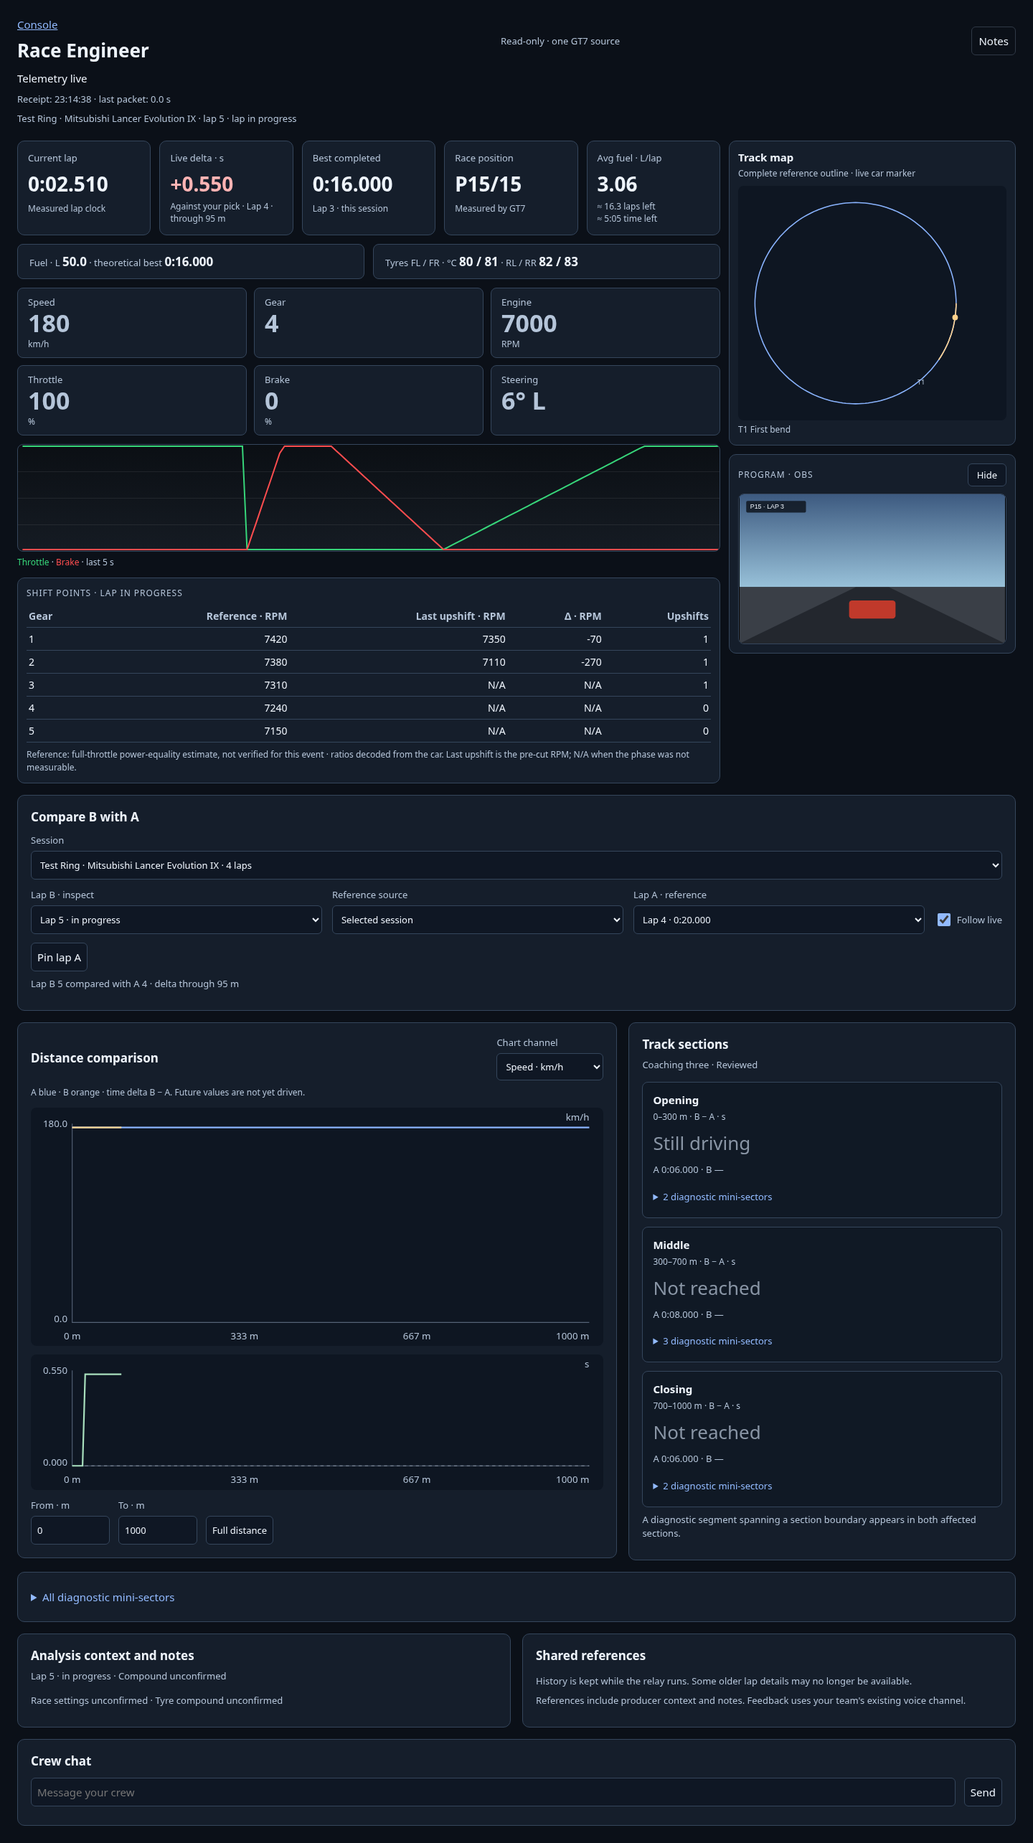
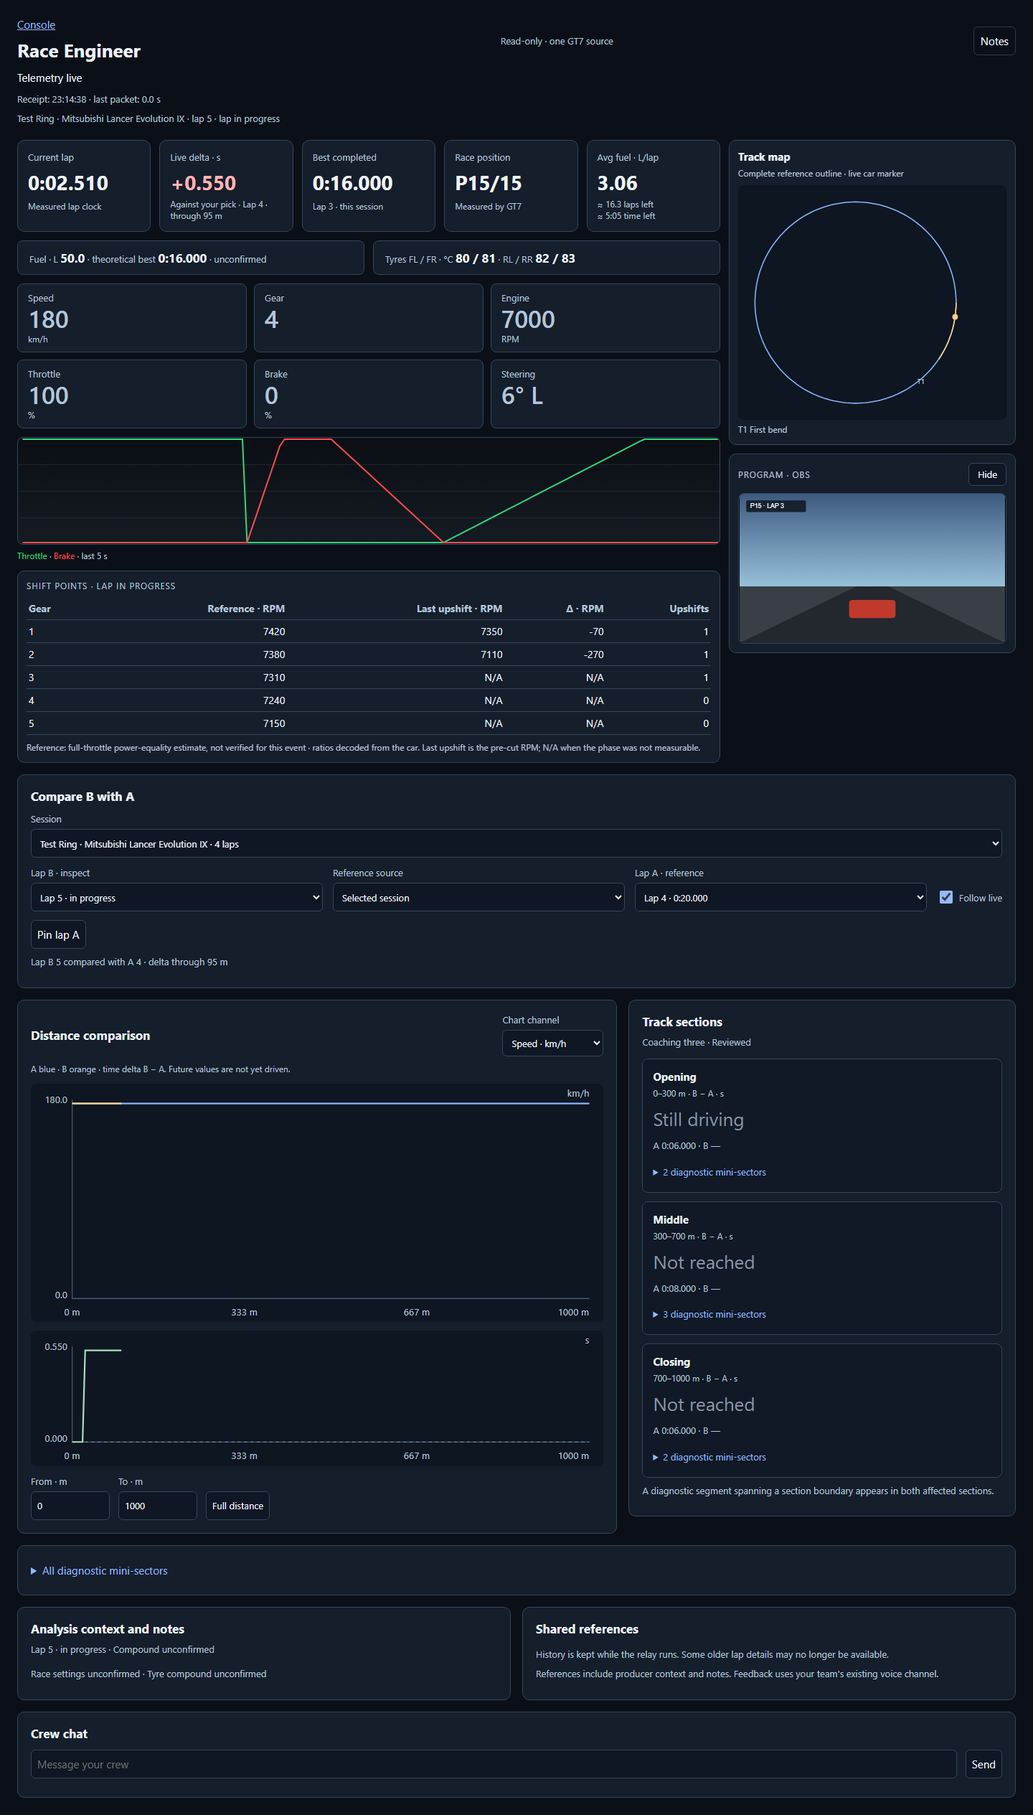
fix(engineer): compose the desk's theoretical best from larger sectors (#1017)
The desk headline summed the best 200 m mini-sectors of every lap. Picking
the best of ~20 slices per lap runs well below any drivable lap: 1:22.120
on Road Atlanta against GT7's own optimum of 1:22.899. #813 keeps that sum
a diagnostic and puts the larger-sector composition in the headline; the
report and workspace already did, the live desk did not.

- theoretical_s now comes from gt7_track_definitions.theoretical over the
  same eligible pool: the selected variant of the layout's definition, or
  the automatic provisional thirds when none is reviewed. Without larger
  sectors it is null, never the mini sum.
- New snapshot fields: theoretical_confirmed, theoretical_sectors and the
  diagnostic mini_sector_sum_s. The desk marks an unconfirmed value and
  names the variant and the mini sum in the tooltip.
- Retained summaries keep their measured larger-sector times through a
  context re-annotation, which has no trace to measure them again.

diff --git a/src/console/race-engineer.html b/src/console/race-engineer.html
@@ -27,7 +27,7 @@ button:disabled{opacity:.5;cursor:default}
 <div class="tile value"><span>Race position</span><strong id="race-position">N/A</strong><small>Measured by GT7</small></div>
 <div class="tile value"><span>Avg fuel · L/lap</span><strong id="fuel-avg">N/A</strong><small id="fuel-avg-note">No completed lap with fuel use</small><small id="fuel-time-note">N/A</small></div>
 </div>
-<div class="support"><div class="value"><span class="sub">Fuel · L </span><strong id="fuel">N/A</strong><span class="sub"> · theoretical best </span><strong id="theory">N/A</strong></div><div class="value"><span class="sub">Tyres FL / FR · °C </span><strong id="tyres-front">N/A</strong><span class="sub"> · RL / RR </span><strong id="tyres-rear">N/A</strong></div></div>
+<div class="support"><div class="value"><span class="sub">Fuel · L </span><strong id="fuel">N/A</strong><span class="sub"> · theoretical best </span><strong id="theory">N/A</strong><span class="sub" id="theory-note"></span></div><div class="value"><span class="sub">Tyres FL / FR · °C </span><strong id="tyres-front">N/A</strong><span class="sub"> · RL / RR </span><strong id="tyres-rear">N/A</strong></div></div>
 
 <div class="inputs"><div class="value"><span>Speed</span><strong id="speed">N/A</strong><small data-unit-for="speed">km/h</small></div><div class="value"><span>Gear</span><strong id="gear">N/A</strong></div><div class="value"><span>Engine</span><strong id="rpm">N/A</strong><small data-unit-for="rpm">RPM</small></div><div class="value"><span>Throttle</span><strong id="throttle">N/A</strong><small data-unit-for="throttle">%</small></div><div class="value"><span>Brake</span><strong id="brake">N/A</strong><small data-unit-for="brake">%</small></div><div class="value"><span>Steering</span><strong id="steer">N/A</strong></div></div>
 <div class="trace-box"><canvas id="input-trace" role="img" aria-label="Throttle and brake trace, last 5 seconds"></canvas><p class="legend"><span class="thr">Throttle</span> · <span class="brk">Brake</span> · <span id="trace-note">Waiting for input samples</span></p></div>
@@ -140,7 +140,7 @@ function renderShifts(snap){const s=snap.shifts,body=$('shift-table').tBodies[0]
   for(const text of [String(g),num(targets.get(g),0),last?(Number.isFinite(last.pre_cut_rpm)?num(last.pre_cut_rpm,0):NA):NA,last&&Number.isFinite(last.deviation_rpm)?signed(last.deviation_rpm,0):NA,String(mine.length)])row.insertCell().textContent=text;}
  $('shift-note').textContent=ref.kind==='unavailable'||!targets.size?'No local shift reference for this car. Fetch it in Telemetry → Data management → Shift references by car.':`Reference: full-throttle power-equality estimate, not verified for this event · ratios ${ref.ratio_source==='decoded transmission'?'decoded from the car':'from the stock source'}. Last upshift is the pre-cut RPM; N/A when the phase was not measurable.`;
 }
-function instruments(snap){const v=snap.instruments||{};$('race-position').textContent=v.race_position!=null&&v.car_count!=null?`P${v.race_position}/${v.car_count}`:NA;for(const [id,value,d] of [['speed',v.speed_kmh,0],['gear',v.gear,0],['rpm',v.rpm,0],['throttle',v.throttle,0],['brake',v.brake,0],['fuel',v.fuel_l,1]])$(id).textContent=num(value,d);for(const [id,value] of [['lap-time',snap.current?.elapsed_s],['best',snap.best_s],['theory',snap.theoretical_s]])$(id).textContent=lapTime(value);
+function instruments(snap){const v=snap.instruments||{};$('race-position').textContent=v.race_position!=null&&v.car_count!=null?`P${v.race_position}/${v.car_count}`:NA;for(const [id,value,d] of [['speed',v.speed_kmh,0],['gear',v.gear,0],['rpm',v.rpm,0],['throttle',v.throttle,0],['brake',v.brake,0],['fuel',v.fuel_l,1]])$(id).textContent=num(value,d);for(const [id,value] of [['lap-time',snap.current?.elapsed_s],['best',snap.best_s],['theory',snap.theoretical_s]])$(id).textContent=lapTime(value);const unconfirmed=snap.theoretical_s!=null&&!snap.theoretical_confirmed;$('theory-note').textContent=unconfirmed?' · unconfirmed':'';$('theory').title=snap.theoretical_s!=null?`Best ${snap.theoretical_sectors||'larger-sector'} composition${unconfirmed?', not confirmed':''}; 200 m mini-sector sum ${lapTime(snap.mini_sector_sum_s)} (diagnostic)`:'';
  const avg=snap.fuel_avg_l,fuel=v.fuel_l,left=Number.isFinite(avg)&&avg>0&&Number.isFinite(fuel)?Math.max(0,fuel)/avg:null;
  $('fuel-avg').textContent=num(avg,2);$('fuel-avg-note').textContent=!snap.fuel_avg_laps?'No completed lap with fuel use':left==null?NA:`≈ ${num(left,1)} laps left`;$('fuel-time-note').textContent=left!=null&&Number.isFinite(snap.lap_avg_s)?`≈ ${duration(left*snap.lap_avg_s)} time left`:NA;
  for(const id of ['lap-time','best','theory'])$(id).classList.remove('not-driven');if(snap.current?.lap<=0){$('lap-time').textContent='Out lap';$('lap-time').classList.add('not-driven');}if(snap.current&&!state.laps.some(r=>r.session_id===snap.current.session_id&&r.comparison_eligible)){for(const [id,value]of [['best',snap.best_s],['theory',snap.theoretical_s]])if(value==null){$(id).textContent='No eligible lap';$(id).classList.add('not-driven');}}

diff --git a/src/scripts/race_engineer_live.py b/src/scripts/race_engineer_live.py
@@ -79,6 +79,7 @@ SUMMARY_FIELDS = frozenset((
     "provisional_comparison_eligible",
     "definition_fingerprint",
     "sector_variant_id",
+    "larger_sectors",
     "track_definition_warnings",
     "context_confirmed",
     "context_warnings",
@@ -174,6 +175,63 @@ def lap_time_average(laps, session_id):
     """Mean lap time (s) over the live session's completed eligible laps, else None."""
     times = _session_measurements(laps, session_id, "time_s")
     return round(sum(times) / len(times), 3) if times else None
+
+
+def theoretical(laps):
+    """The headline theoretical best (#813): the best larger-sector composition over
+    `laps`, the eligible pool, via the same gt7_track_definitions.theoretical the
+    report and workspace use. The newest lap's definition and variant decide, and only
+    laps on exactly that variant compose. A dict {time_s, confirmed, sectors}, or None
+    without larger sectors: the 200 m mini-sector sum never stands in for it."""
+    rows = [r for r in laps if r.get("larger_sectors")]
+    if not rows:
+        return None
+    larger, fingerprint = rows[-1]["larger_sectors"], rows[-1].get("definition_fingerprint")
+    same = [r for r in rows if r.get("definition_fingerprint") == fingerprint
+            and r["larger_sectors"].get("variant_id") == larger.get("variant_id")
+            and r["larger_sectors"].get("bounds_m") == larger.get("bounds_m")]
+    definition = {"fingerprint": fingerprint, "reviewed": bool(larger.get("reviewed")),
+                  "version": None,
+                  "variants": [{"id": larger.get("variant_id"), "name": larger.get("name"),
+                                "kind": larger.get("kind"), "reviewed": bool(larger.get("reviewed")),
+                                "bounds_m": larger.get("bounds_m"),
+                                "sector_names": larger.get("names") or []}]}
+    try:
+        result = gt7_track_definitions.theoretical(same, definition, larger.get("variant_id"))
+    except (ValueError, TypeError, KeyError):
+        return None
+    if _finite(result.get("time_s")) is None:
+        return None
+    times = [r["time_s"] for r in same if _finite(r.get("time_s")) is not None]
+    # Rounding every sector can sum a few ms above the lap that set them all.
+    value = round(min([result["time_s"]] + times), 3)
+    return {"time_s": value, "confirmed": bool(result.get("confirmed")),
+            "sectors": larger.get("name")}
+
+
+def _carry_larger_sectors(new, old):
+    """A retained summary has no trace, so re-annotating it (a context change) can
+    rebuild no larger-sector times: the automatic provisional definition even needs a
+    trace to exist. Keep the times measured earlier when the re-annotation produced
+    no definition or the same one without times; a genuinely different definition
+    stays empty until a lap with a trace measures it."""
+    measured = old.get("larger_sectors")
+    current = new.get("larger_sectors")
+    if not measured or not measured.get("times_s") or all(t is None for t in measured["times_s"]):
+        return new
+    if current and current.get("times_s") and any(t is not None for t in current["times_s"]):
+        return new
+    if current and (new.get("definition_fingerprint") != old.get("definition_fingerprint")
+                    or current.get("bounds_m") != measured.get("bounds_m")):
+        return new
+    return dict(new, larger_sectors=measured,
+                definition_fingerprint=old.get("definition_fingerprint"),
+                sector_variant_id=old.get("sector_variant_id"))
+
+
+def mini_sector_sum(laps):
+    """Diagnostic only: the best 200 m mini-sector times summed (#813)."""
+    return gt7_laps.theoretical_best(laps)
 
 
 def instruments(pkt):
@@ -497,6 +555,9 @@ class Store:
             "fuel_avg_laps": 0,
             "lap_avg_s": None,
             "theoretical_s": None,
+            "theoretical_confirmed": False,
+            "theoretical_sectors": None,
+            "mini_sector_sum_s": None,
             "history": (
                 "recording-backed"
                 if self._recording and self._recording_current
@@ -932,6 +993,7 @@ class Store:
         ]
         fuel_avg, fuel_laps = fuel_average(self._summaries.values(), sid)
         best = min(eligible, key=lambda r: r["time_s"], default=None)
+        theory = theoretical(eligible)
         doc.update(
             revision=self._revision,
             current=current,
@@ -946,7 +1008,10 @@ class Store:
             fuel_avg_l=fuel_avg,
             fuel_avg_laps=fuel_laps,
             lap_avg_s=lap_time_average(self._summaries.values(), sid),
-            theoretical_s=gt7_laps.theoretical_best(eligible),
+            theoretical_s=theory["time_s"] if theory else None,
+            theoretical_confirmed=bool(theory and theory["confirmed"]),
+            theoretical_sectors=theory["sectors"] if theory else None,
+            mini_sector_sum_s=mini_sector_sum(eligible),
             warnings=[self._context_error] if self._context_error else [],
         )
         digest = hashlib.sha256(
@@ -1460,7 +1525,7 @@ class Store:
                 self._summaries = collections.OrderedDict(
                     (
                         lid,
-                        _summary(self._annotate(row))
+                        _summary(_carry_larger_sectors(self._annotate(row), row))
                         if row.get("_context_source") == key[0]
                         else row,
                     )
@@ -1481,7 +1546,7 @@ class Store:
                     (lid, self._annotate(row)) for lid, row in self._details.items()
                 )
                 self._summaries = collections.OrderedDict(
-                    (lid, _summary(self._annotate(row)))
+                    (lid, _summary(_carry_larger_sectors(self._annotate(row), row)))
                     for lid, row in self._summaries.items()
                 )
                 self._trim_details(self._published["session_id"])

diff --git a/tests/test_race_engineer_live.py b/tests/test_race_engineer_live.py
@@ -725,7 +725,8 @@ def t_confirmed_best_and_theory_respect_known_strategy_changes():
                         'compound': 'RM', 'strategy': {'fuel_map': 1},
                         'strategy_changes': [{'lap': 3, 'recording_s': 36.0,
                                               'strategy': {'fuel_map': 2}}]}]}}}, 0)
-        with live.Store(lambda: True, tracks=FakeTracks(), cars=FakeCars(), queue_max=4096) as store:
+        with live.Store(lambda: True, tracks=FakeTracks(), cars=FakeCars(), queue_max=4096,
+                        runtime_base=d) as store:
             store.bind_recording(path)
             store._read_context()
             feed(store, path)
@@ -733,6 +734,7 @@ def t_confirmed_best_and_theory_respect_known_strategy_changes():
             assert snap['current']['strategy']['fuel_map'] == 2
             assert snap['best_s'] == 20.0, 'known incompatible fuel strategy contaminated best'
             assert snap['theoretical_s'] == 20.0
+            assert snap['mini_sector_sum_s'] == 20.0, 'the diagnostic shares the filtered pool'
 
 
 def t_prefix_byte_boundary_excludes_later_packets():
@@ -826,6 +828,73 @@ def t_recorded_prefix_ending_midlap_waits_until_the_known_lap_end():
             assert store.detail(brief['id'])['state'] == 'pending'
             assert store.wait_recovery(10)
             assert store.detail(brief['id'])['state'] == 'ready'
+
+
+def _theory_row(lap, time_s, mini, larger, fp='fp1', variant='provisional-3'):
+    return {'lap': lap, 'time_s': time_s, 'track_id': 'ring01', 'car_id': 1, 'sectors': mini,
+            'pace_eligible': True, 'comparison_eligible': True, 'capture_complete': True,
+            'trace_complete': True, 'time_valid': True, 'analysis_role': 'regular',
+            'definition_fingerprint': fp,
+            'larger_sectors': {'variant_id': variant, 'name': 'Provisional thirds',
+                               'kind': 'provisional', 'reviewed': False,
+                               'bounds_m': [0.0, 400.0, 800.0, 1200.0],
+                               'names': ['Section 1', 'Section 2', 'Section 3'],
+                               'times_s': larger}}
+
+
+def t_theory_headline_composes_larger_sectors_not_mini_sectors():
+    # #813: the headline theoretical best is the larger-sector composition; the
+    # 200 m mini-sector best sum stays a diagnostic. Lap 1 wins sectors 1 and 3
+    # by tiny mini-sector margins, lap 2 wins the middle mini-sectors: the mini
+    # sum picks the best of every 200 m and lands below what any section allows.
+    a = _theory_row(1, 30.0, [5.0, 4.8, 5.2, 5.0, 4.9, 5.1], [9.8, 10.2, 10.0])
+    b = _theory_row(2, 30.1, [5.1, 4.9, 5.0, 5.1, 5.0, 5.0], [10.0, 10.1, 10.0])
+    theory = live.theoretical([a, b])
+    assert theory['time_s'] == 29.9, theory          # 9.8 + 10.1 + 10.0
+    assert theory['confirmed'] is False and theory['sectors'] == 'Provisional thirds', theory
+    assert live.mini_sector_sum([a, b]) == 29.7       # 5.0+4.8+5.0+5.0+4.9+5.0: below every section
+    # laps on another definition or variant never mix into one composition
+    other = _theory_row(3, 29.0, [4.0] * 6, [9.0, 9.0, 9.0], fp='fp-other')
+    assert live.theoretical([a, b, other])['time_s'] == 27.0, 'the newest definition decides'
+    assert live.theoretical([other, a, b])['time_s'] == 29.9
+    # without larger sectors there is no headline value, never a mini-sector stand-in
+    bare = {k: v for k, v in a.items() if k != 'larger_sectors'}
+    assert live.theoretical([bare]) is None
+
+
+def t_snapshot_reports_larger_sector_theory_and_the_mini_diagnostic():
+    with tempfile.TemporaryDirectory() as d:
+        path = write_circle_recording(d, lap_secs=(20.0, 16.0, 20.0, 20.0))
+        with live.Store(lambda: True, tracks=FakeTracks(), cars=FakeCars(), queue_max=4096,
+                        runtime_base=d) as store:
+            feed(store, path)
+            snap = store.snapshot()
+            assert snap['theoretical_s'] is not None, snap['theoretical_s']
+            assert snap['theoretical_sectors'] == 'Provisional thirds', snap.get('theoretical_sectors')
+            assert snap['theoretical_confirmed'] is False
+            assert snap['mini_sector_sum_s'] is not None
+
+
+def t_larger_sector_times_survive_a_context_reannotation_without_detail():
+    # A context change re-annotates retained summaries, which carry no trace. Their
+    # measured larger-sector times must survive it, as the mini-sector times do.
+    import gt7_context
+    with tempfile.TemporaryDirectory() as d:
+        path = write_circle_recording(d, lap_secs=(20.0, 16.0, 20.0, 20.0))
+        with live.Store(lambda: True, tracks=FakeTracks(), cars=FakeCars(), queue_max=4096,
+                        details_max=1, runtime_base=d) as store:
+            store.bind_recording(path)
+            feed(store, path)
+            before = store.snapshot()['theoretical_s']
+            assert before == 16.0, before
+            context = gt7_context.Store.for_recording(path)
+            context.save({'notes': [], 'sessions': {'1': {'confirmed': False, 'stints': []}}}, 0)
+            store._read_context()
+            snap = store.snapshot()
+            times = [(r.get('larger_sectors') or {}).get('times_s') for r in store._summaries.values()
+                     if r.get('state') == 'confirmed']
+            assert times and all(t and None not in t for t in times), times
+            assert snap['theoretical_s'] == before, snap['theoretical_s']
 
 
 if __name__ == '__main__':

diff --git a/tests/test_release_analysis_fixes.py b/tests/test_release_analysis_fixes.py
@@ -141,7 +141,7 @@ def t_best_lap_detail_survives_default_eviction_and_backs_the_theory():
         times = (20., 16.) + tuple(20. + i * .1 for i in range(18))
         path = write_circle_recording(directory, lap_secs=times, n=200)
         with live.Store(lambda: True, tracks=FakeTracks(), cars=FakeCars(),
-                        queue_max=8192) as store:
+                        queue_max=8192, runtime_base=directory) as store:
             feed(store, path)
             snap = store.snapshot()
             best = next(r for r in snap['laps'] if r['lap'] == 2)
@@ -152,11 +152,13 @@ def t_best_lap_detail_survives_default_eviction_and_backs_the_theory():
             assert store.stats()['details'] <= live.DETAILS_MAX
             assert snap['best_s'] == 16.
             assert snap['theoretical_s'] == 16.
+            assert snap['mini_sector_sum_s'] == 16.
             api = race_engineer_api.Service(store)
             try:
                 assert api.snapshot()['theoretical_s'] == 16.
                 public = api.history(None)['laps']
-                assert all('sectors' not in row and 'trace' not in row for row in public)
+                assert all('sectors' not in row and 'trace' not in row
+                           and 'larger_sectors' not in row for row in public)
             finally:
                 api.close()
 
@@ -183,13 +185,16 @@ def t_theory_composes_evicted_and_retained_sectors_instead_of_only_clamping():
         expected = gt7_laps.theoretical_best([r for r in index['laps'] if r['pace_eligible']])
         assert expected < 15., 'fixture must combine sectors from different laps'
         with live.Store(lambda: True, tracks=FakeTracks(), cars=FakeCars(),
-                        queue_max=4096, details_max=1) as store:
+                        queue_max=4096, details_max=1, runtime_base=directory) as store:
             feed(store, writer.path)
             snap = store.snapshot()
             # Lap 2 is the best lap and keeps its detail; lap 3's fast first sector is evicted.
             assert store.detail(next(r['id'] for r in snap['laps'] if r['lap'] == 3))['state'] == 'evicted'
-            assert snap['theoretical_s'] == expected
-            assert snap['theoretical_s'] < snap['best_s']
+            assert snap['mini_sector_sum_s'] == expected
+            # #813: the headline composes larger sectors from the same retained pool, so
+            # it also beats the best lap here, yet stays above the 200 m sum.
+            assert snap['theoretical_sectors'] == 'Provisional thirds'
+            assert expected < snap['theoretical_s'] < snap['best_s'], snap['theoretical_s']
 
 
 if __name__ == '__main__':

diff --git a/src/docs/wiki/Race-Engineer.md b/src/docs/wiki/Race-Engineer.md
@@ -114,8 +114,13 @@ refreshes it in the background. Its displayed distance identifies that prefix.
 The map uses the complete selected reference lap as its outline, or the latest
 confirmed session lap when no reference is available. Its outline and full-distance
 chart range stay stable while the live trace grows, including during preparation.
-The displayed best uses retained eligible summaries. The theoretical value uses
-the retained detailed pool, not an unlimited full-session archive.
+The displayed best uses retained eligible summaries. The theoretical best composes the
+best **larger sectors** over the same retained pool, not an unlimited full-session
+archive: the layout's selected sector variant, or the automatic provisional thirds
+when no reviewed track definition exists. It reads **unconfirmed** until reviewed
+sectors and confirmed context back it. The tooltip also shows the 200 m mini-sector
+sum; that is a diagnostic only, since picking the best of every 200 m runs below what
+a driven lap allows.
 
 Change the chart channel or distance limits to inspect braking, throttle, speed,
 steering or gear. **Full distance** resets zoom. The map uses measured world

diff --git a/src/docs/design/race-engineer-api.md b/src/docs/design/race-engineer-api.md
@@ -22,7 +22,11 @@ selector. All successful data responses have `version: 1` and a relay `generatio
 Errors use `{error: {code, message}}` with generic messages.
 
 - `snapshot`: measured instruments, receipt and age, current lap summary, best and
-  theoretical values from the bounded retained pool. No history or trace payload.
+  theoretical values from the bounded retained pool. `theoretical_s` composes the best
+  larger sectors (`theoretical_sectors` names the variant, `theoretical_confirmed` is
+  false for provisional or unreviewed sectors and unconfirmed context); without larger
+  sectors it is null. `mini_sector_sum_s` is the 200 m best-segment sum, a diagnostic
+  only (#813). No history or trace payload.
 - `history?since=REVISION`: sessions and retained lap summaries. An unchanged revision
   returns `changed: false` without arrays. A changed revision returns a bounded replacement
   list, including explicit detail eviction. Clients discard IDs no longer present.
